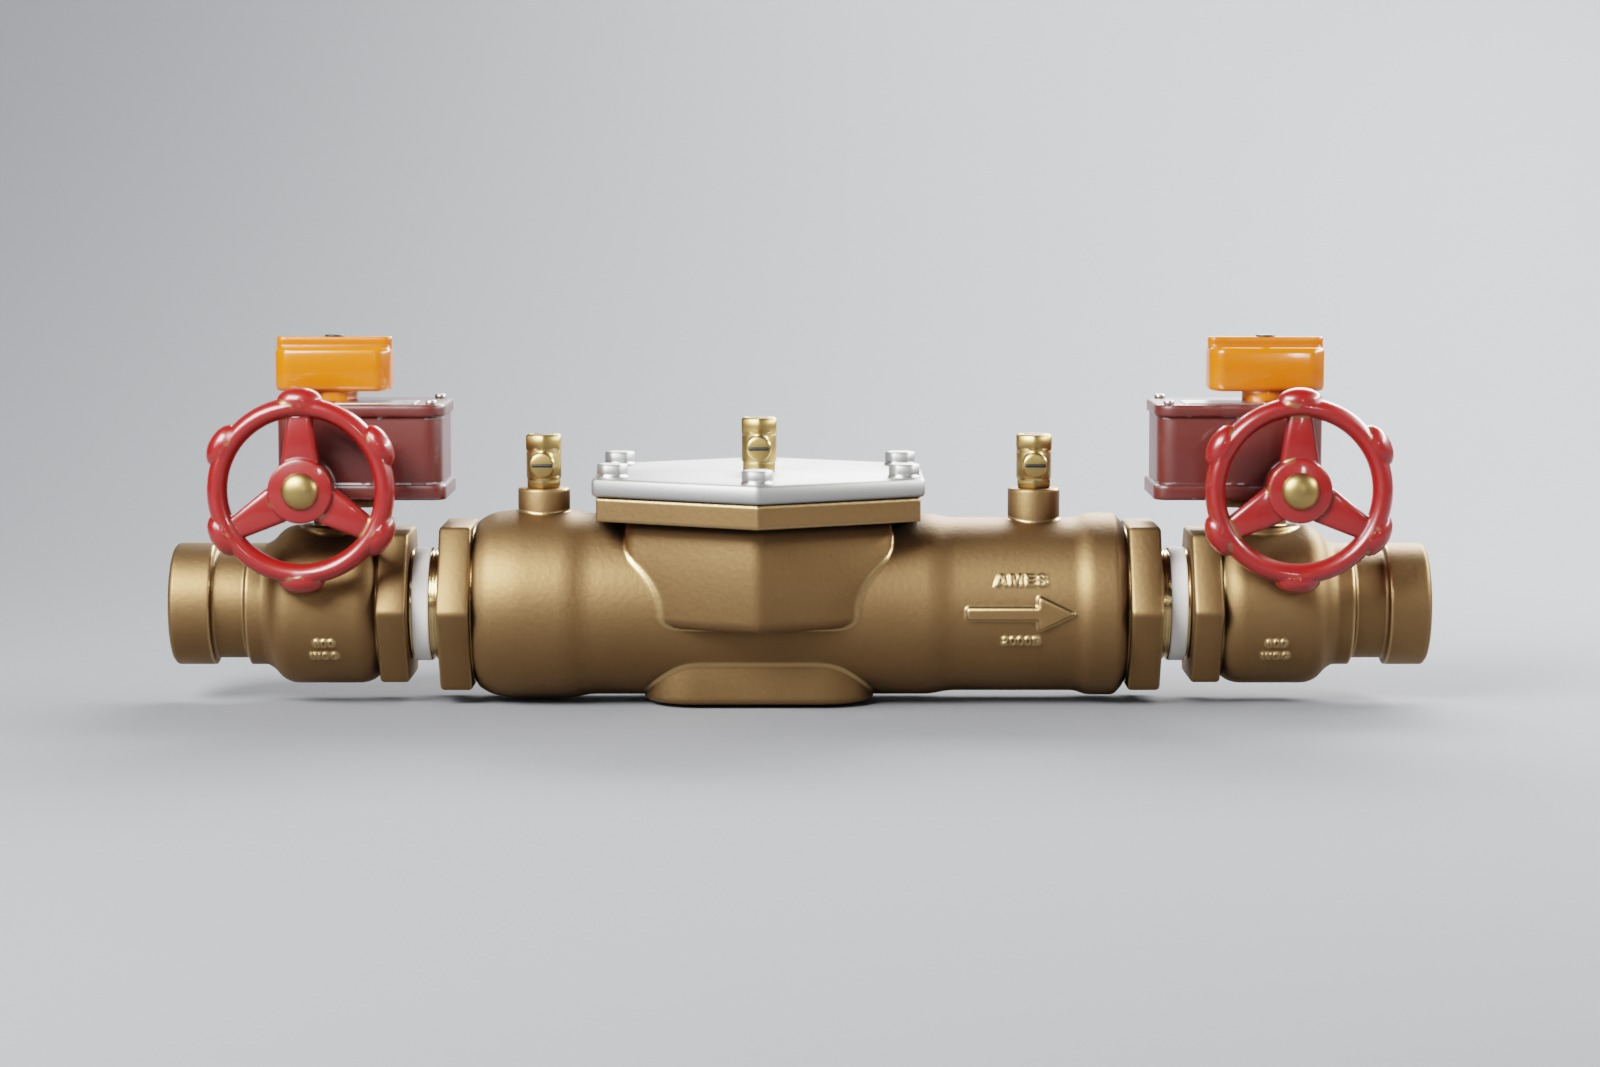
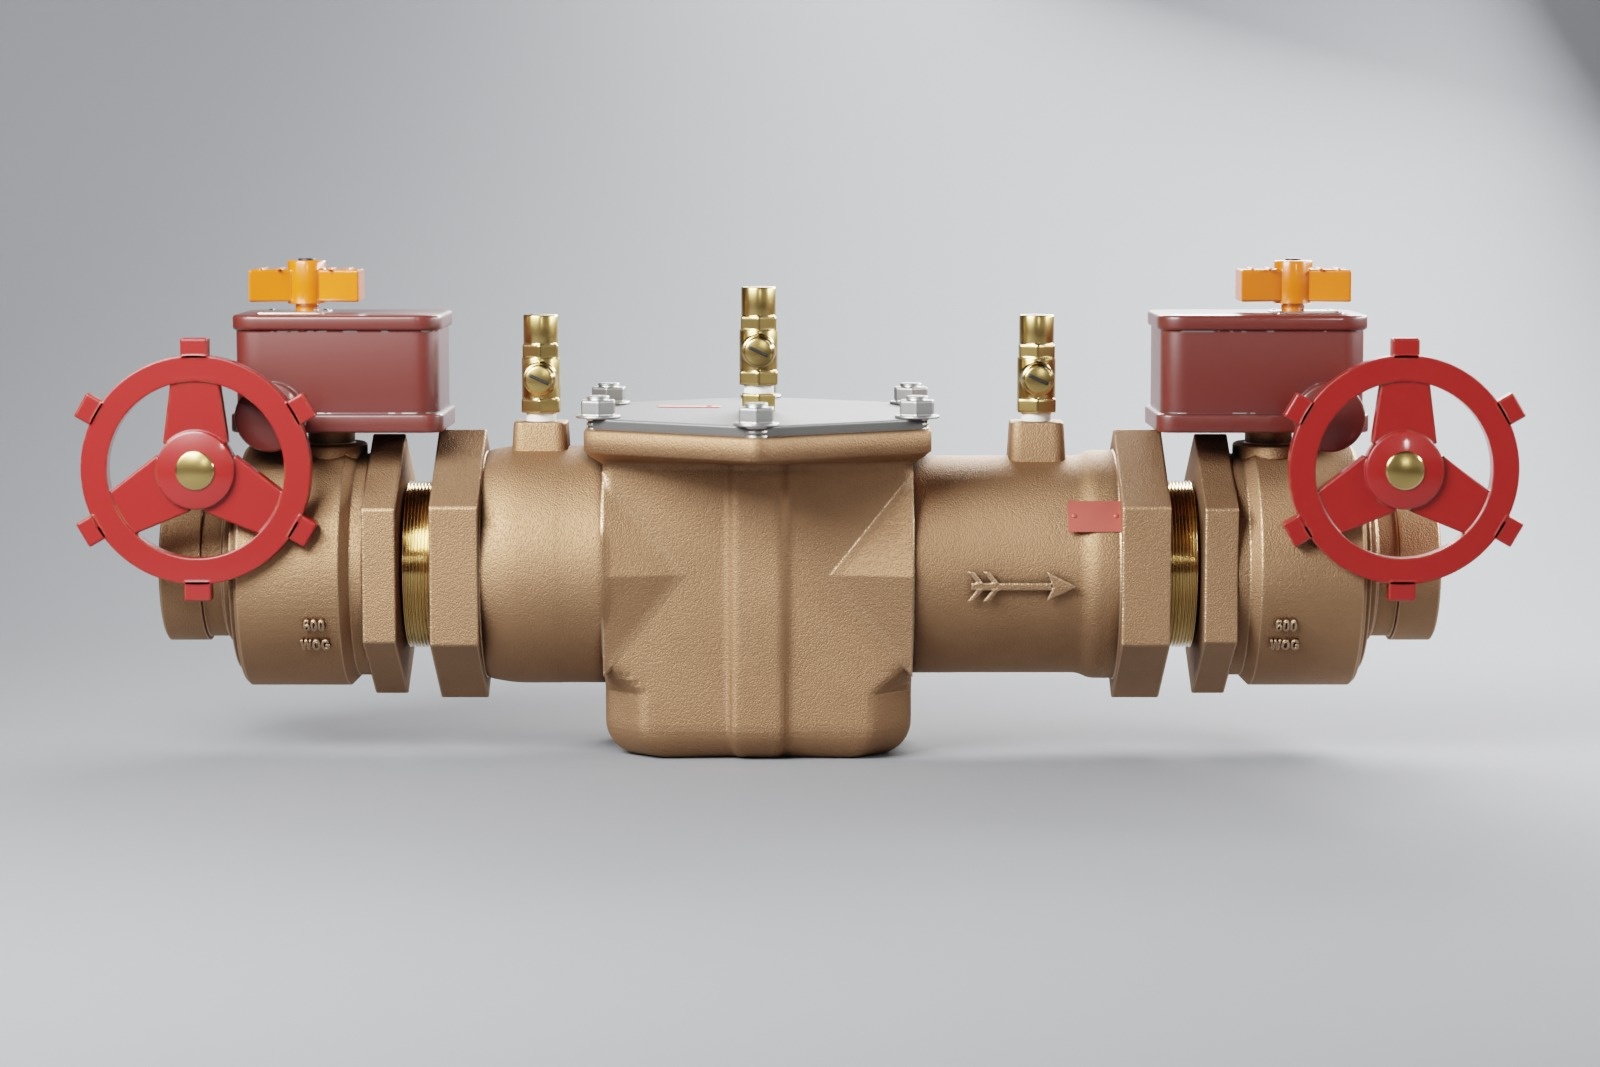
watts: gallery renders from the photo-matched 2in rebuild (v10); Revit embed gets its own workspace const; hub note

Changed region(s): [[0.0312, 0.2474, 0.9688, 0.7732], [0.875, 0.0, 1.0, 0.1856], [0.7188, 0.0, 0.8438, 0.0309]]

diff --git a/hub/index.html b/hub/index.html
@@ -155,8 +155,8 @@
       <td class="n">Draft for Ryan Yaeger (Caplugs). Remove the internal on-page note before sending. Size table dims are illustrative; CAD downloads are LIVE for STEP/GLB/USDZ/FBX (green rows; gate form then real file from the public API); native .sldprt and IGES remain mockups. Swap in real PDP dimension data when available.</td></tr><tr class="keep">
       <td><a href="/watts.html" target="_blank">watts.html</a><div class="grp">Watts Water</div></td>
       <td>Ames (Watts) 2000B-FP double check valve: one page, three tabs sharing one viewer. Product (size / end-connection selector, real ES-A-2000B-FP dims + specs, feature list that highlights parts, Revit/BIM + spec + manual links, no pricing), Replacement Parts (real 1" kits ARK 2000B-RT 1 = 7016351 and ARK 2000B-CK4 1 = 7016333 mapped to the exact parts, BOM table, 3D click-to-select, "Open up" slider), Install &amp; Service (10 steps from manual RP/IS-A-2000B: highlights, handwheel spin, cover lift, check removal + fan-out, acknowledge-gated warnings). Hero toggle: Interactive 3D / Blender renders / original Revit file. Deep links ?tab=parts, ?tab=service. B2B eComm World demo for Marta Dalton.</td>
-      <td class="d">2026-10-05</td>
-      <td class="u">All in <code>DCicero / configurators</code>: page loads v7 <code>737ea709</code> only (open cover seat + ring gasket). Original Revit <code>a960f6a4</code> (before/after view). 3 platform hotspots created via admin API (cover, gear operator, test cocks), rendered on the Product tab. Superseded v2-v6 + duplicate v7 <code>d59a0538</code> deleted 2026-10-06. Deringer 30X Revit <code>e90632db</code> uploaded by Derek (candidate 2nd Watts product). Renders under assets/watts/ (v2 photoreal pass 2026-10-15: admin/watts/render_v2/render_watts_v2.py). Source .blend/.glb in admin/watts/ (not committed).</td>
+      <td class="d">2026-10-16</td>
+      <td class="u"><b>2026-10-16:</b> gallery renders replaced with the photo-matched 2" rebuild (one-piece cast center, real fittings, sand-cast finish; admin/watts/modify_watts_v9h/k/l.py on 2000B-FP_v9.blend). The 3D viewer still shows the 1" v7 until the 2" GLB (2000B-FP_v10_2in_photomatch.glb, target <code>tradeshows</code>) gets through platform processing (uploads spinning, with Model Ops/Guzman). 2" model code + kits (ARK 2000B-RT 2 / CK1 2) parked in admin/watts/watts_2in_pending.patch to ship WITH that model. Revit embed now has its own REVIT_WS. All in <code>DCicero / configurators</code>: page loads v7 <code>737ea709</code> only (open cover seat + ring gasket). Original Revit <code>a960f6a4</code> (before/after view). 3 platform hotspots created via admin API (cover, gear operator, test cocks), rendered on the Product tab. Superseded v2-v6 + duplicate v7 <code>d59a0538</code> deleted 2026-10-06. Deringer 30X Revit <code>e90632db</code> uploaded by Derek (candidate 2nd Watts product). Renders under assets/watts/ (v2 photoreal pass 2026-10-15: admin/watts/render_v2/render_watts_v2.py). Source .blend/.glb in admin/watts/ (not committed).</td>
       <td class="n">Draft. Model rebuilt in Blender from the spec-sheet photo (Revit used for layout only); internals modeled from the manual's exploded drawing. Next: consumer Watts product, optional Figurement renders.</td></tr><tr class="keep">
       <td><a href="/northline-rpz.html" target="_blank">northline-rpz.html</a><div class="grp">Generic / Tradeshow</div></td>
       <td>Brand-neutral twin of the Watts page: fictional "Northline Flow Controls" NRP-200 RPZ (reduced pressure zone) backflow preventer, built so it does NOT read as any real product (teal quarter-turn levers, two round 4-bolt check covers, front-access relief valve, grey air-gap funnel, NORTHLINE cast on body). Same three tabs (Product / Replacement Parts with Outside-Inside callouts / 10-step Install &amp; Service incl. air-gap drain + relief valve service, lever quarter-turn animation), Renders gallery, QR/AR, real GLB download. Fictional part numbers NL-10441..3 (kits RT / CK / RV); footer says brand + specs are illustrative.</td>

diff --git a/watts.html b/watts.html
@@ -320,7 +320,7 @@
 <script>
 const BASE="https://api.vntana.com", ORG="DCicero", WS="configurators";
 const UUID=new URLSearchParams(location.search).get("uuid")||"737ea709-7cf9-445d-9153-a163b4d4bd3b";  // rebuilt 2000B-FP (v7), Live Public; ?uuid= to test another build
-const REVIT_UUID="a960f6a4-52c2-4969-8c89-4553b8d560ac";    // original Revit family as uploaded
+const REVIT_UUID="a960f6a4-52c2-4969-8c89-4553b8d560ac", REVIT_WS="configurators";    // original Revit family as uploaded
 const $=id=>document.getElementById(id);
 const viewer=$("viewer");
 
@@ -781,16 +781,16 @@ $("resetBtn").onclick=()=>{ applyTabState(); };
 
 /* ---------------- renders + Revit overlay ---------------- */
 const RENDERS=[["hero","Hero, three-quarter"],["front","Front elevation"],["top","Top three-quarter"],["detail","Gear operator detail"],["service","Service view, checks removed"]];
-$("gallery").innerHTML=RENDERS.map(([k,c],i)=>`<figure data-i="${i}"><img src="assets/watts/render_${k}.jpg?v=3" alt="${c}" loading="lazy"><figcaption>${c}</figcaption></figure>`).join("");
-$("thumbs").innerHTML=RENDERS.map(([k,c],i)=>`<img data-i="${i}" src="assets/watts/render_${k}.jpg?v=3" alt="${c}">`).join("");
-function showRender(i){ $("renderImg").src=`assets/watts/render_${RENDERS[i][0]}.jpg?v=3`; $("thumbs").querySelectorAll("img").forEach(t=>t.classList.toggle("on",+t.dataset.i===i)); }
+$("gallery").innerHTML=RENDERS.map(([k,c],i)=>`<figure data-i="${i}"><img src="assets/watts/render_${k}.jpg?v=5" alt="${c}" loading="lazy"><figcaption>${c}</figcaption></figure>`).join("");
+$("thumbs").innerHTML=RENDERS.map(([k,c],i)=>`<img data-i="${i}" src="assets/watts/render_${k}.jpg?v=5" alt="${c}">`).join("");
+function showRender(i){ $("renderImg").src=`assets/watts/render_${RENDERS[i][0]}.jpg?v=5`; $("thumbs").querySelectorAll("img").forEach(t=>t.classList.toggle("on",+t.dataset.i===i)); }
 $("thumbs").addEventListener("click",e=>{ const t=e.target.closest("img"); if(t) showRender(+t.dataset.i); });
 $("gallery").addEventListener("click",e=>{ const f=e.target.closest("figure"); if(!f) return; setTab("product"); setMode("renders"); showRender(+f.dataset.i); window.scrollTo({top:0,behavior:"smooth"}); });
 function setMode(m){
   document.querySelectorAll("#modes button").forEach(b=>b.classList.toggle("on",b.dataset.mode===m));
   $("ovRenders").classList.toggle("show",m==="renders"); $("ovRevit").classList.toggle("show",m==="revit");
   if(m==="renders"&&!$("renderImg").src) showRender(0);
-  if(m==="revit"&&!$("revitFrame").src) $("revitFrame").src=`https://embed.vntana.com/v2?productUuid=${REVIT_UUID}&clientSlug=${WS}&organizationSlug=${ORG}`;
+  if(m==="revit"&&!$("revitFrame").src) $("revitFrame").src=`https://embed.vntana.com/v2?productUuid=${REVIT_UUID}&clientSlug=${REVIT_WS}&organizationSlug=${ORG}`;
 }
 document.querySelectorAll("#modes button").forEach(b=>b.onclick=()=>setMode(b.dataset.mode));
 // AR: phones launch AR directly; desktop opens the viewer's QR code so the visitor can continue on their phone
